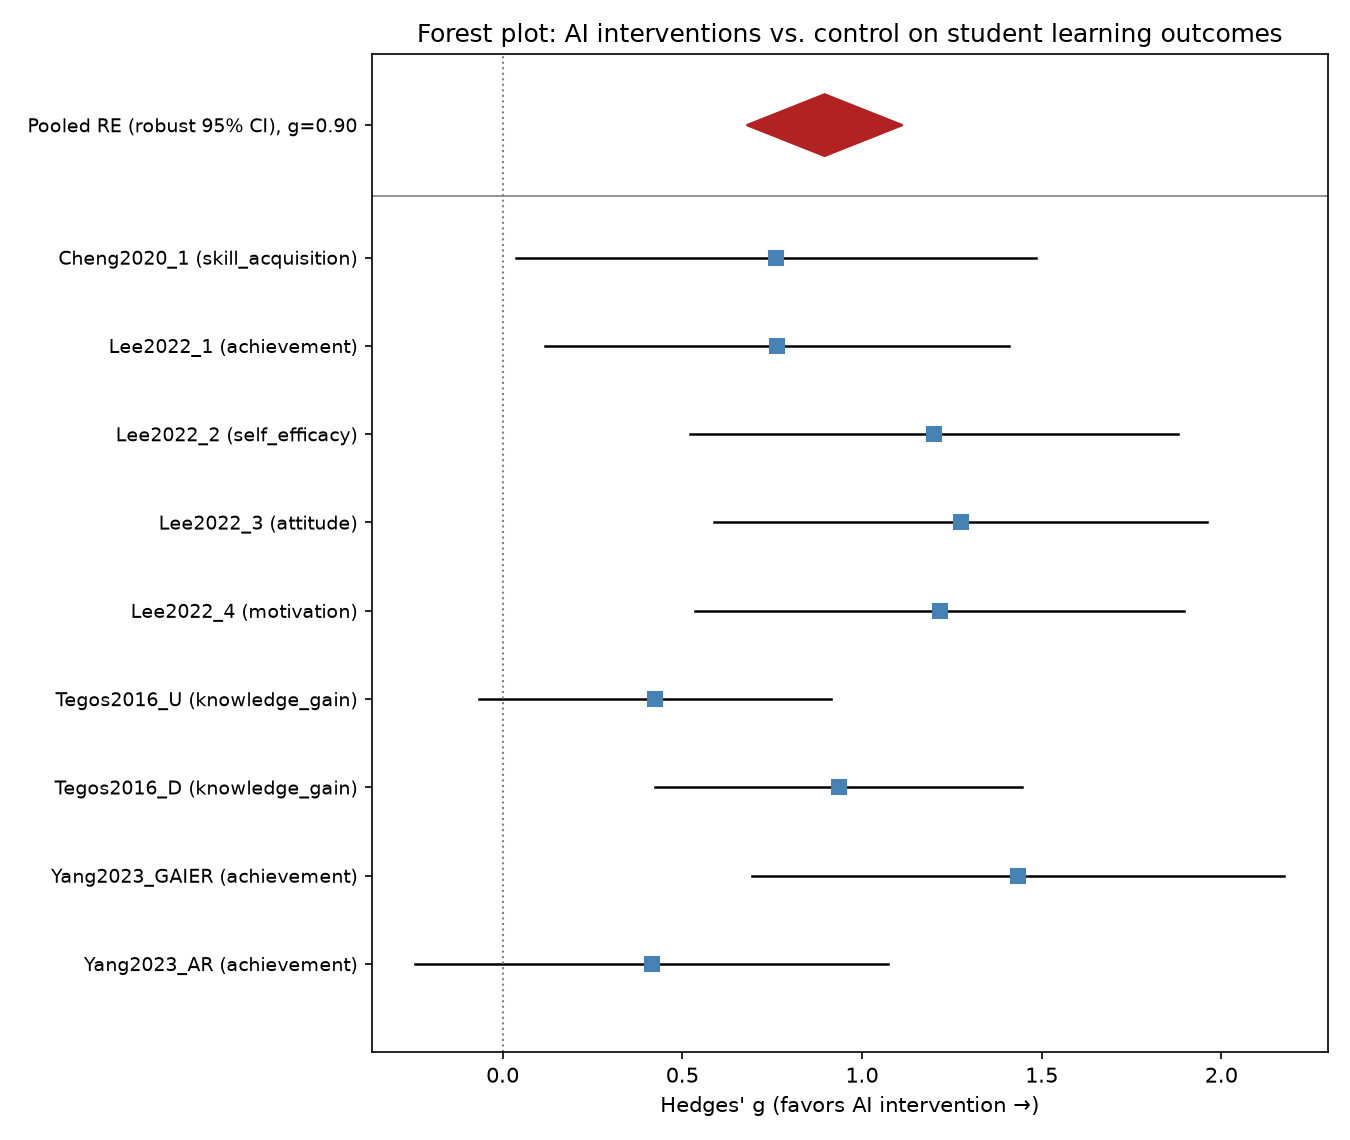
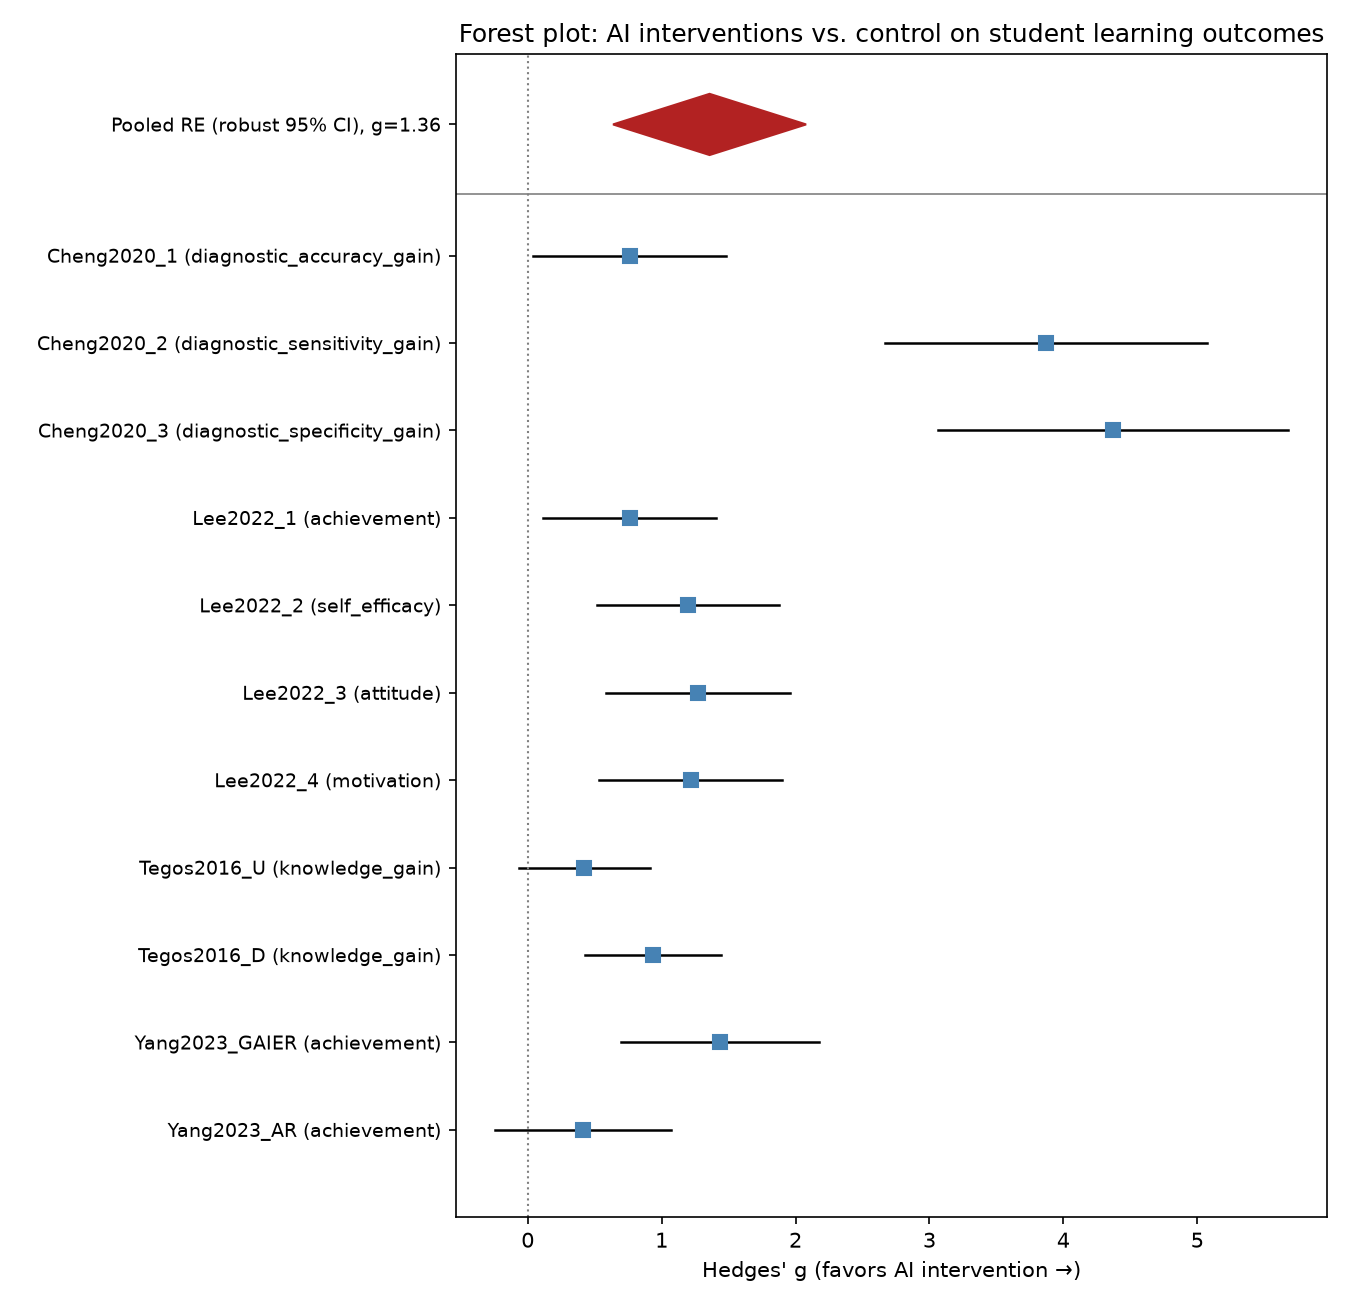
Split Cheng et al. (2020) into 3 separate outcomes instead of accuracy-only
Table 2 of the paper reports three distinct diagnostic-performance gain
scores (accuracy, sensitivity, specificity) from the same 15/15 sample;
these are now extracted as separate dependent effect sizes rather than
using accuracy alone.

The sensitivity/specificity gain-score SDs (1.7, 1.4, 1.8, 1.1) are far
smaller than the accuracy-gain SD (6.9, 9.3) from the same table/sample,
producing unusually large Hedges' g values (~3.9, ~4.4). Flagged this
explicitly in the extraction notes and confirmed with the PI to keep the
values as literally reported rather than silently rescaling or dropping
them. Pooled estimate updates to g=1.36 (was 0.90), 95% CI [0.19, 2.53],
I^2=83% (was 25%) - the two outlier effect sizes are visibly driving the
heterogeneity increase in the updated forest/funnel plots.

Also fixes a hardcoded "k=9" in the funnel plot title so it reflects the
actual effect-size count.

Claude-Session: https://claude.ai/code/session_01RBPNuLe9R8227ARsGt3hhQ

diff --git a/analysis/scripts/python_meta_analysis_uploaded_papers.py b/analysis/scripts/python_meta_analysis_uploaded_papers.py
@@ -169,7 +169,7 @@ ax2.axvline(y_re, color="firebrick", lw=1)
 ax2.invert_yaxis()
 ax2.set_xlabel("Hedges' g")
 ax2.set_ylabel("Standard error")
-ax2.set_title("Funnel plot (k=9 effect sizes, m=4 studies — too few for a\nformal publication-bias test)")
+ax2.set_title(f"Funnel plot (k={k} effect sizes, m={m} studies — too few for a\nformal publication-bias test)")
 fig2.tight_layout()
 fig2.savefig(OUT_DIR / "funnel_plot.png", dpi=150)
 plt.close(fig2)
